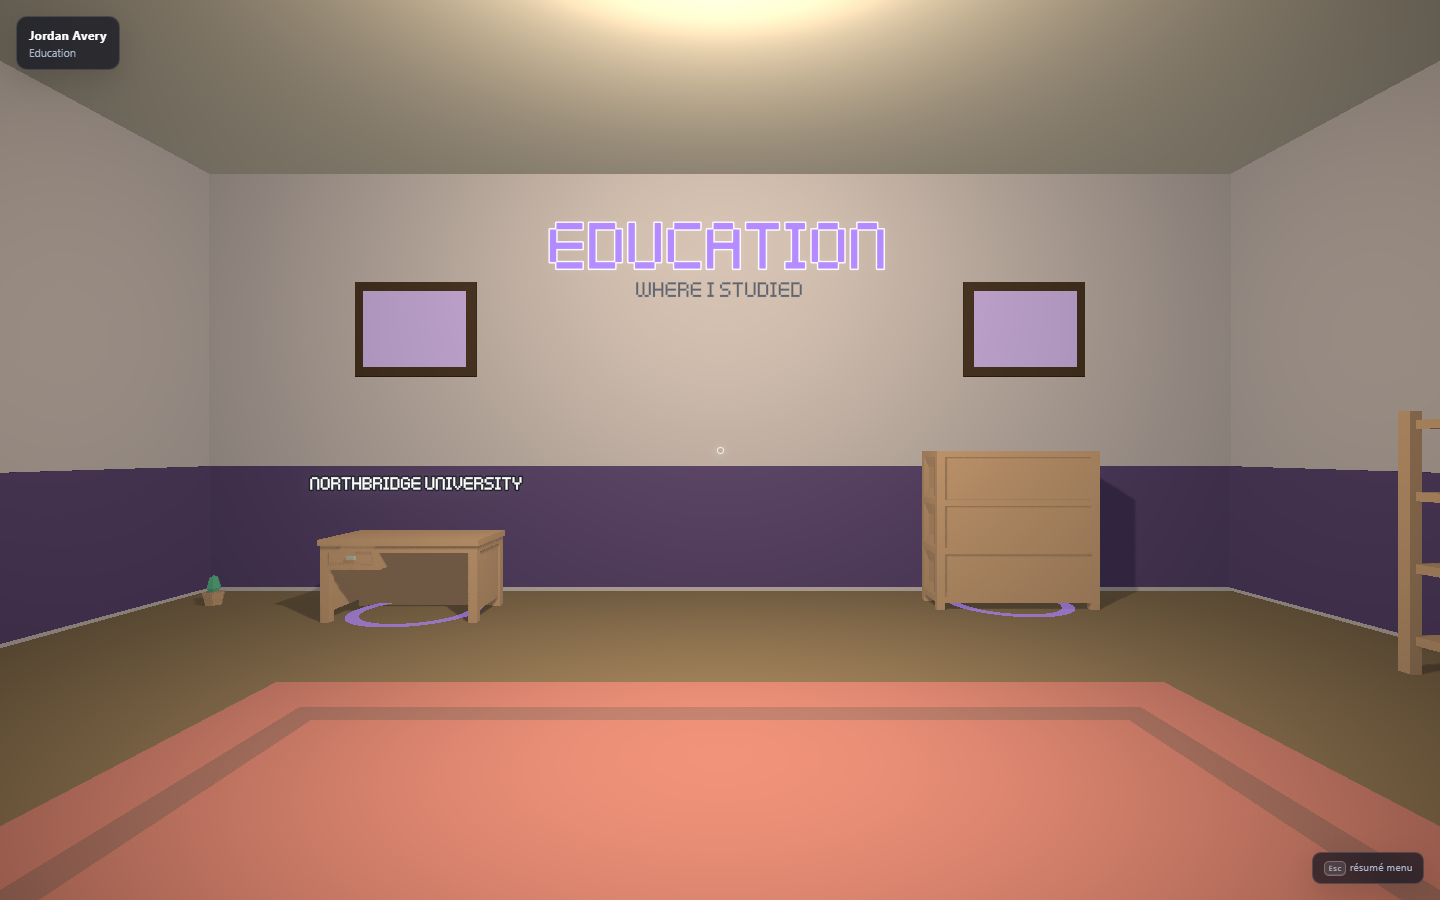
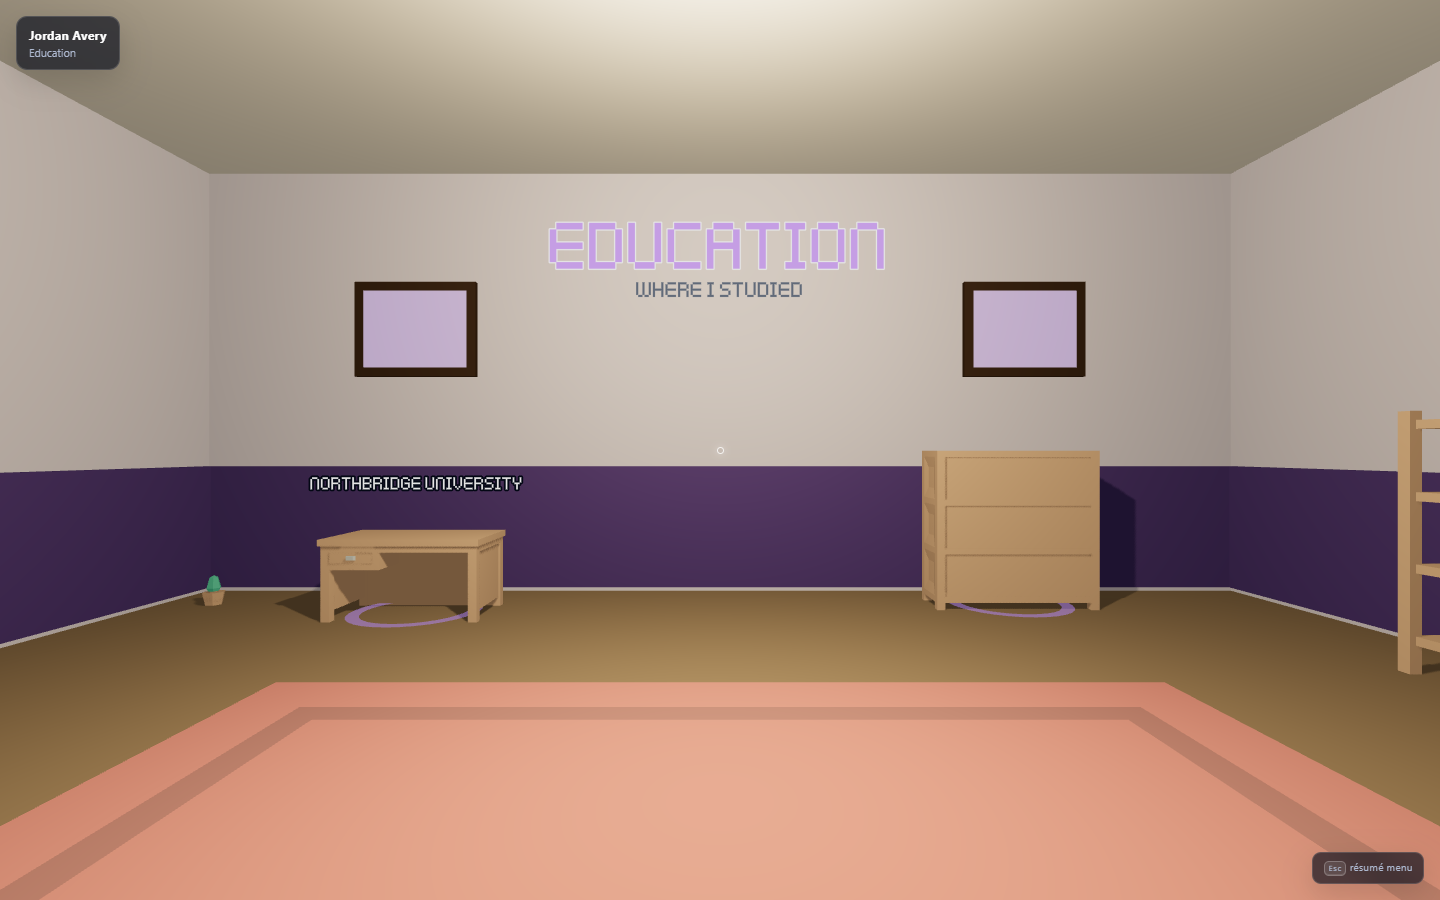
Phase 1: upgrade to three r187 / fiber 9.8 / drei 10.7.9 (WebGL)
Drop @react-three/postprocessing (WebGL-only, caps at three<0.187);
bloom/vignette return as a TSL pipeline in Phase 4.

diff --git a/src/App.tsx b/src/App.tsx
@@ -1,7 +1,6 @@
 import { Suspense } from "react";
 import { Canvas } from "@react-three/fiber";
 import { useProgress } from "@react-three/drei";
-import { EffectComposer, Bloom, Vignette } from "@react-three/postprocessing";
 import * as THREE from "three";
 import Scene from "./components/Scene";
 import HUD from "./components/HUD";
@@ -45,10 +44,8 @@ function App() {
       >
         <Suspense fallback={null}>
           <Scene />
-          <EffectComposer multisampling={0}>
-            <Bloom intensity={0.35} luminanceThreshold={0.72} luminanceSmoothing={0.3} mipmapBlur />
-            <Vignette eskil={false} offset={0.18} darkness={0.48} />
-          </EffectComposer>
+          {/* Post-processing (bloom + vignette) is reintroduced in Phase 4 as a
+              TSL PostProcessing node pipeline once the renderer is WebGPU. */}
         </Suspense>
       </Canvas>
       <LoadingStatus />
